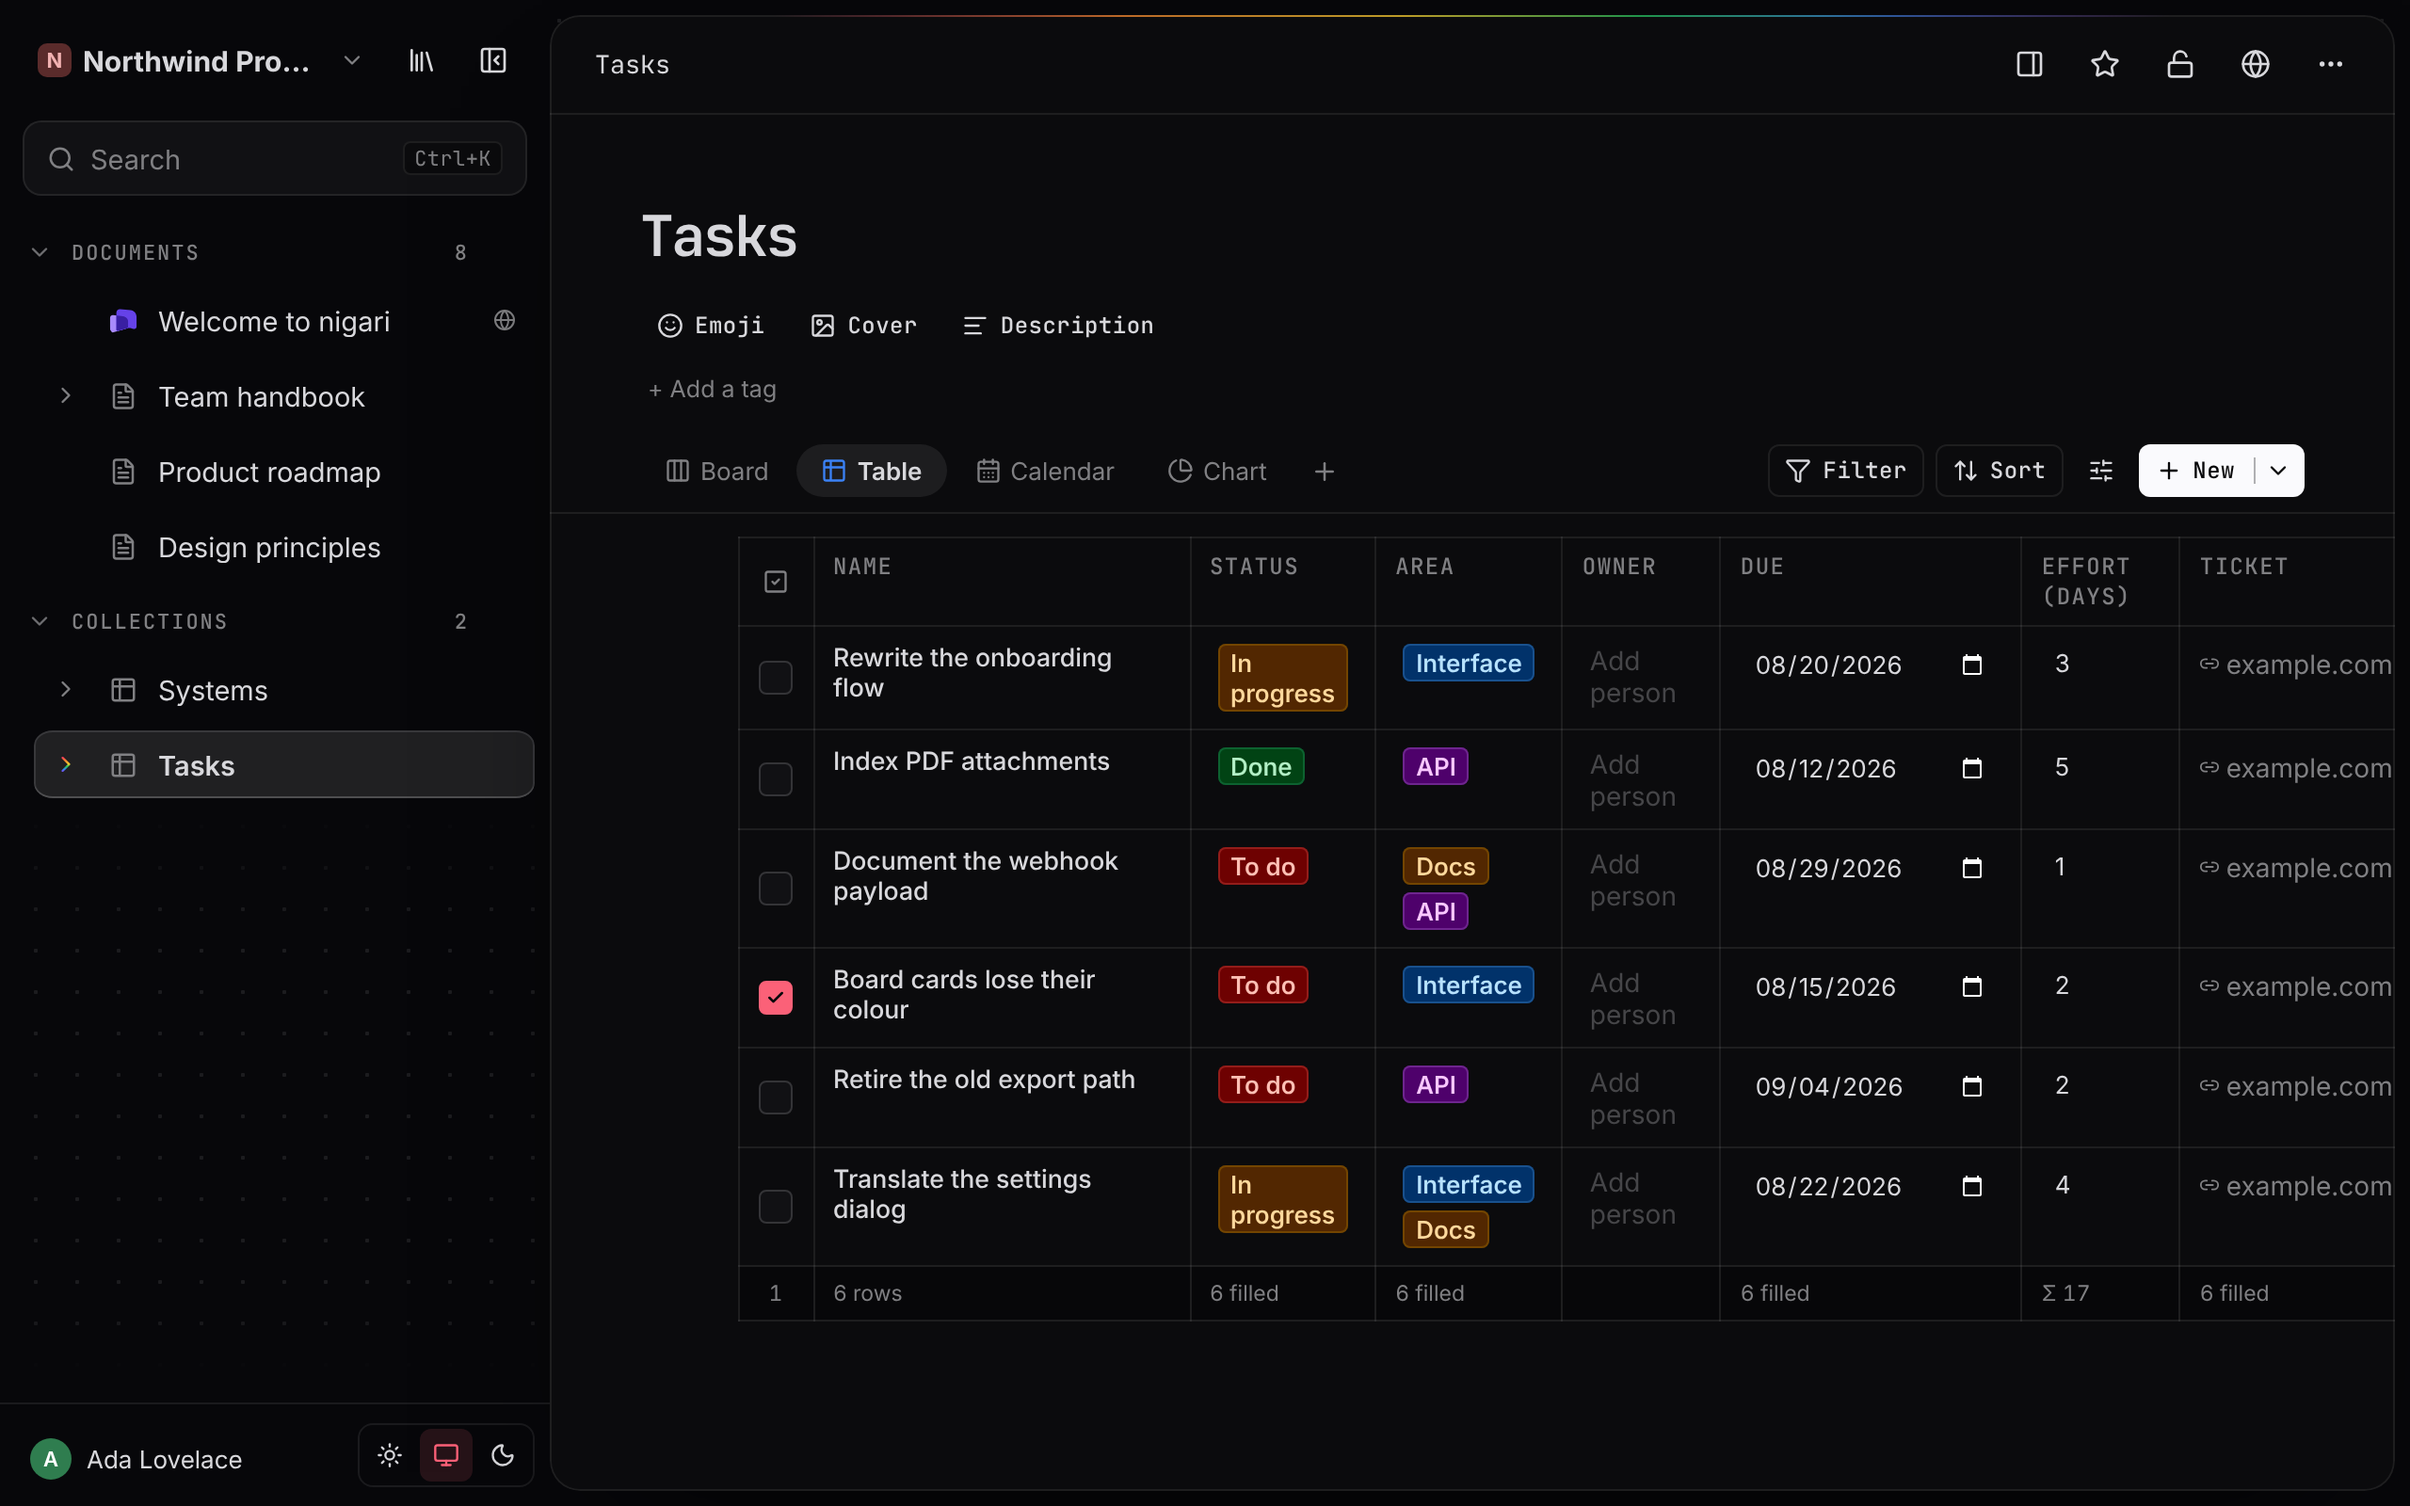
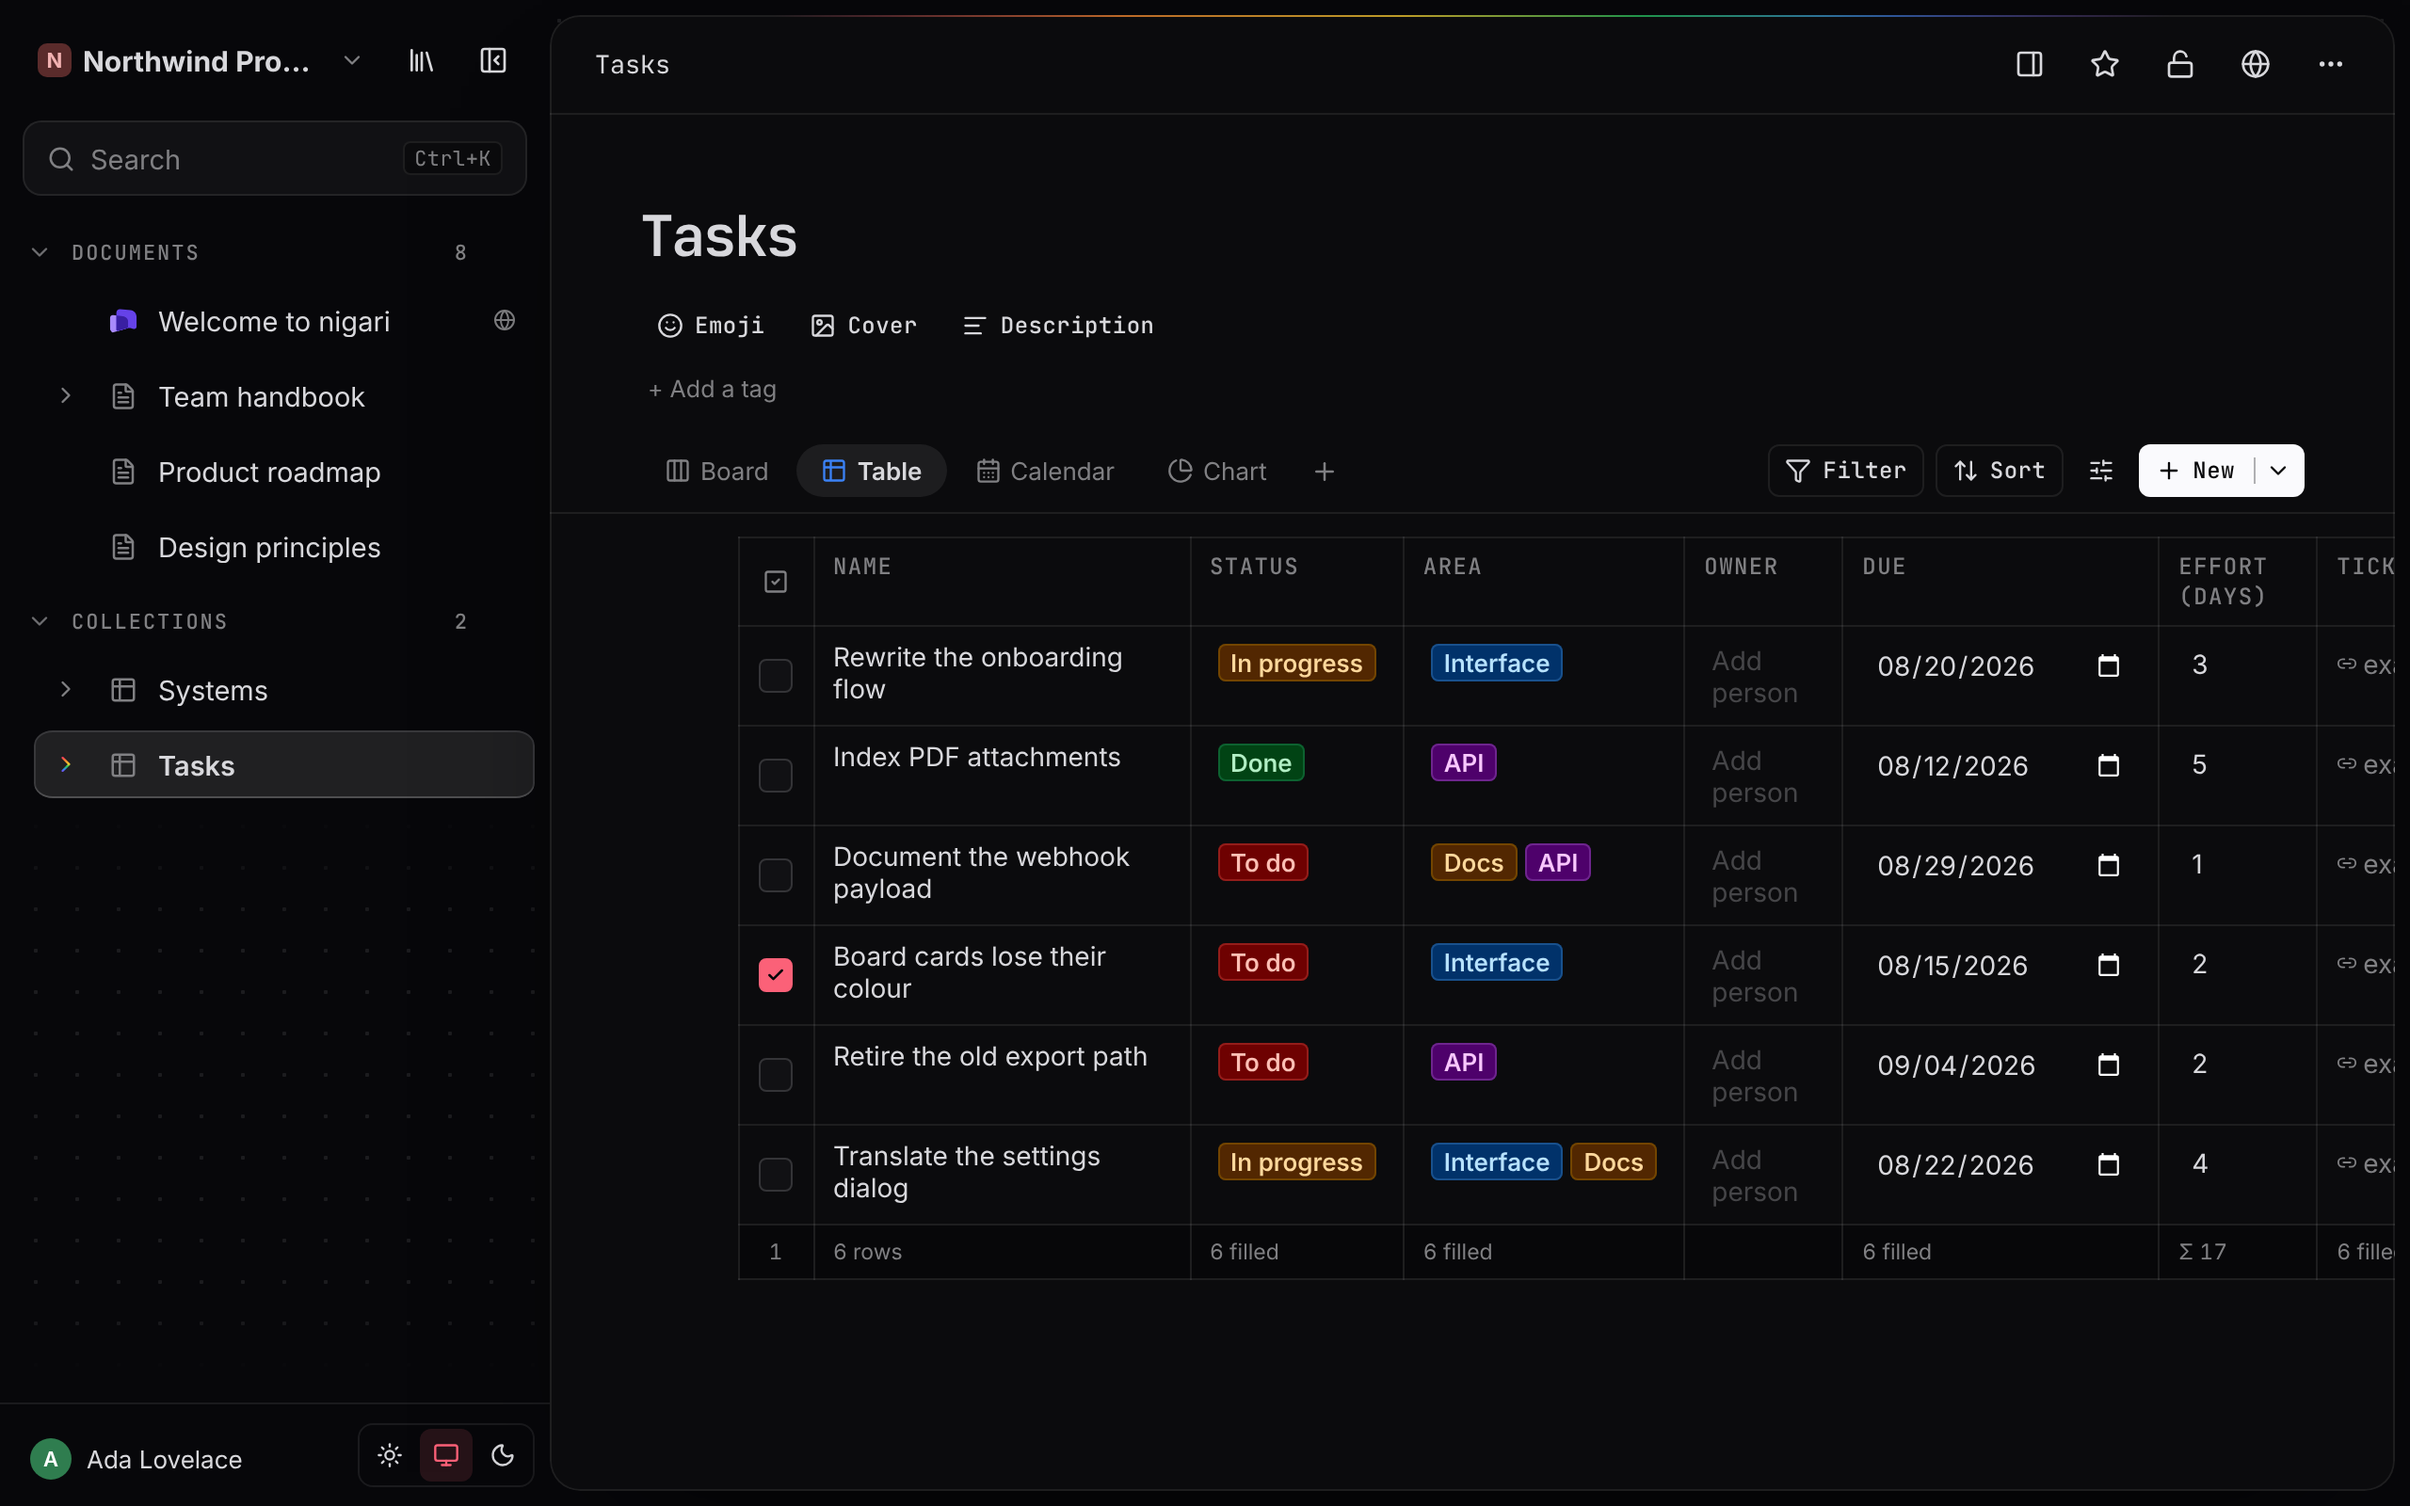
Table cells keep long names in their column and share one text size; view settings save in order
- #813: a relation or select chip in a table cell is cut at the column's
  edge with an ellipsis and shows its full name on hover. The wrappers were
  inline-block, so they grew with the chip and drew over the next columns.
- #814 and table text size: the Name column (a button, 13.3px medium) and a
  date (13px) now use the table's 14px regular, like a text cell.
- #806: the select cell offered "Anlegen: „…"" in every language. It is
  t('Create “{name}”') with de, es and nl, and check-i18n now reads the German
  opening quote „ as German, with the old line as its self-test case. Two
  German CSS comments it found are translated.
- #530: config saves go one at a time through saveLine.ts; changes made while
  one is in flight go together in the next request, and a refusal shows what
  the server last took instead of a snapshot from before a later change.
  check-saveline.mjs covers it.
- #574: not an app bug. view-lock.mjs waited for any view settings menu, which
  matched the one still fading out after "Unlock views", and pressed Escape
  before the new menu opened. It now waits for the open one (6 of 6 green,
  was failing 4 of 5 without the reload wait).
- New browser spec table-cells.mjs; wiki table screenshots retaken.

Claude-Session: https://claude.ai/code/session_01GhcW34T5KixuxvWn1HXSdz

diff --git a/web/src/components/CollectionView.tsx b/web/src/components/CollectionView.tsx
@@ -58,6 +58,7 @@ import ListView from './ListView';
 import BoardView from './BoardView';
 import { groupValueFor, UNSET, type Row } from '../collectionRow';
 import { defaultChartView } from '../chartDefaults';
+import { saveLine } from '../saveLine';
 import { copyDatabaseView, copyableViews, encodeEmbedLocal, moveView as moveEmbedView, newEmbedViewId, readEmbedLocal, removeView as removeEmbedView, withOpenView } from '../embedViews';
 
 // A chart (spec 004) brings Chart.js, about 60 KB gzip: loaded only when a
@@ -346,10 +347,13 @@ export default function CollectionView({ collectionId, pages, tagColors, onNavig
   const embedRef = useRef(embed);
   embedRef.current = embed;
 
+  // What the server last took: a refused save shows this again (#530).
+  const savedConfig = useRef<CollectionConfig | null>(null);
   const loadConfig = useCallback(() => {
     void api
       .getCollection(collectionId)
       .then((c) => {
+        savedConfig.current = c;
         setConfig(c);
         setViewId((v) => {
           // The open view survives tab switches and reloads; it only falls
@@ -616,29 +620,40 @@ export default function CollectionView({ collectionId, pages, tagColors, onNavig
   // the moment somebody here resized a column.
   // Answers whether the save went through, so a dialog that saves (the schema
   // editor) can stay open with its edits when it did not.
+  // One save at a time, the changes made meanwhile sent together (#530).
+  const saves = useMemo(
+    () =>
+      saveLine<Partial<CollectionConfig>>(
+        (patch) => api.putCollection(collectionId, patch),
+        (patch) => {
+          if (savedConfig.current) savedConfig.current = { ...savedConfig.current, ...patch };
+        },
+        (e) => {
+          // A refused change (a reader's, or a chart setting the server cannot
+          // draw) used to stay on screen as if saved, until the next reload
+          // showed otherwise. Put back what is stored and say why (spec 004,
+          // FR-027; spec 007's pattern). What is stored is what the server
+          // last took, not the state before this one change: that put back
+          // changes made after it (#530). Every caller fires and forgets, so
+          // the refusal ends here.
+          // The lock is not part of a save (setLock keeps it on screen): it stays.
+          const saved = savedConfig.current;
+          if (saved) setConfig((c) => ({ ...saved, viewsLocked: c ? c.viewsLocked : saved.viewsLocked }));
+          toastError((e as Error).message);
+          // Somebody locked the views since this tab loaded them (spec 013): the
+          // config is reloaded, so the lock shows and its controls go.
+          if (e instanceof ApiError && e.code === 'views_locked') loadConfig();
+        },
+      ),
+    [collectionId, loadConfig],
+  );
   const saveConfig = async (next: CollectionConfig): Promise<boolean> => {
     const patch: Partial<CollectionConfig> = {};
     if (!config || next.schema !== config.schema) patch.schema = next.schema;
     if (!config || next.views !== config.views) patch.views = next.views;
-    const before = config;
     setConfig(next);
     if (!patch.schema && !patch.views) return true;
-    try {
-      await api.putCollection(collectionId, patch);
-      return true;
-    } catch (e) {
-      // A refused change (a reader's, or a chart setting the server cannot
-      // draw) used to stay on screen as if saved, until the next reload
-      // showed otherwise. Put back what is stored and say why (spec 004,
-      // FR-027; spec 007's pattern). Every caller fires and forgets, so the
-      // refusal ends here.
-      if (before) setConfig(before);
-      toastError((e as Error).message);
-      // Somebody locked the views since this tab loaded them (spec 013): the
-      // config is reloaded, so the lock shows and its controls go.
-      if (e instanceof ApiError && e.code === 'views_locked') loadConfig();
-      return false;
-    }
+    return saves.save(patch);
   };
 
   const addRow = async (presetProps?: Record<string, unknown>) => {

diff --git a/web/src/styles.css b/web/src/styles.css
@@ -2656,6 +2656,30 @@ body:has(.icon-picker) .bn-side-menu {
   white-space: nowrap;
 }
 
+/* A relation or select cell keeps its chips inside the column (#813). Both
+   wrappers were inline-block, so they grew with the chips, the 100% above
+   measured the chips themselves and a long name drew over the next columns;
+   a select chip broke its name over several lines instead. As blocks they
+   take the column's width, and every chip cuts its name with an ellipsis and
+   shows it whole on hover (its title). */
+.db-table td .relation-value,
+.db-table td .select-cell {
+  display: block;
+}
+.db-table td .select-cell-value {
+  flex-wrap: nowrap;
+  overflow: hidden;
+}
+.db-table td .select-cell-value > span {
+  min-width: 0;
+}
+.db-table td .select-cell-value .prop-chip {
+  display: block;
+  overflow: hidden;
+  text-overflow: ellipsis;
+  white-space: nowrap;
+}
+
 /* The counted remainder. Deliberately quiet — it is a hint that there is more,
    not a value in its own right. */
 .relation-more {
@@ -2885,6 +2909,18 @@ body.is-col-resizing {
 .db-table .db-title-col {
   min-width: 200px;
   max-width: 420px;
+}
+
+/* One text size and weight in every cell (#814): the table's 14px. The name
+   is a button and a date an input, and both took the browser's own 13.3px or
+   the inputs' 13px, the name in medium weight too, so the Name column read as
+   another typeface beside the text cells. Chips keep their smaller label size.
+   A phone still raises the date input to 16px (the iOS zoom rule). */
+.db-table .db-title-link,
+.db-table .db-title-input,
+.db-table td .prop-input {
+  font-size: inherit;
+  font-weight: inherit;
 }
 
 /* The leading checkbox column (TableView): as wide as its box. Its name is
@@ -6364,7 +6400,7 @@ body.is-col-resizing {
   }
 }
 
-/* ---- W44b: „Agents & MCP" im Sidebar-Footer — schillernder Farbtext ---- */
+/* ---- W44b: "Agents & MCP" in the sidebar footer: shimmering coloured text ---- */
 
 .agents-menu-item {
   display: flex;
@@ -6415,7 +6451,7 @@ body.is-col-resizing {
   to { background-position: -300% 0; }
 }
 
-/* ---- W45: Index „Baum · Agent-Sicht" ---- */
+/* ---- W45: Index "tree · agent view" ---- */
 
 .index-modes {
   display: inline-flex;

diff --git a/web/src/saveLine.ts b/web/src/saveLine.ts
@@ -1,0 +1,59 @@
+// A database's config saves, sent one at a time (#530).
+//
+// Each save sends the whole views array. Sent side by side, two quick changes
+// (three properties ticked off in Settings › Property visibility) could reach
+// the server out of order, and a refused first save put the screen back to
+// the state from before it, undoing the second and third on screen while the
+// server kept the third. Here a save waits for the one in flight; the changes
+// made meanwhile go together in the next request, the later key winning. A
+// refusal also drops the waiting ones: they hold the refused change too.
+// The caller then shows what the server last took (`onRefused`).
+
+export interface SaveLine<P> {
+  /** Resolves true once the server took this change, false when it or the
+   *  save it waited on was refused. */
+  save: (patch: P) => Promise<boolean>;
+}
+
+export function saveLine<P extends object>(
+  send: (patch: P) => Promise<unknown>,
+  onSaved: (patch: P) => void,
+  onRefused: (e: unknown) => void,
+): SaveLine<P> {
+  let busy = false;
+  let waiting: { patch: P; done: ((ok: boolean) => void)[] } | null = null;
+
+  const run = async (patch: P, done: ((ok: boolean) => void)[]) => {
+    busy = true;
+    let ok = true;
+    try {
+      await send(patch);
+      onSaved(patch);
+    } catch (e) {
+      ok = false;
+      const dropped = waiting;
+      waiting = null;
+      for (const d of dropped?.done ?? []) d(false);
+      onRefused(e);
+    }
+    for (const d of done) d(ok);
+    const next = waiting;
+    waiting = null;
+    busy = false;
+    if (next) void run(next.patch, next.done);
+  };
+
+  return {
+    save: (patch) =>
+      new Promise<boolean>((resolve) => {
+        if (!busy) {
+          void run(patch, [resolve]);
+          return;
+        }
+        waiting = {
+          patch: { ...waiting?.patch, ...patch } as P,
+          done: [...(waiting?.done ?? []), resolve],
+        };
+      }),
+  };
+}

diff --git a/web/src/components/PropertyValue.tsx b/web/src/components/PropertyValue.tsx
@@ -90,7 +90,7 @@ export function idList(value: unknown): string[] {
 function chip(opt: PropOption | undefined, fallback: string) {
   const color = opt?.color ?? '#999';
   return (
-    <span className="prop-chip" style={{ background: color + '2e', color }}>
+    <span className="prop-chip" style={{ background: color + '2e', color }} title={opt?.name ?? fallback}>
       {opt?.name ?? fallback}
     </span>
   );
@@ -320,7 +320,7 @@ function SelectCell({
                     : filtered.map(renderOpt)}
                   {query && !exact && onOptionsChange && (
                     <button className="select-create" onClick={create}>
-                      <Plus size={15} /> Anlegen: „{query}"
+                      <Plus size={15} /> {t('Create “{name}”', { name: query })}
                     </button>
                   )}
                   {filtered.length === 0 && !query && (
